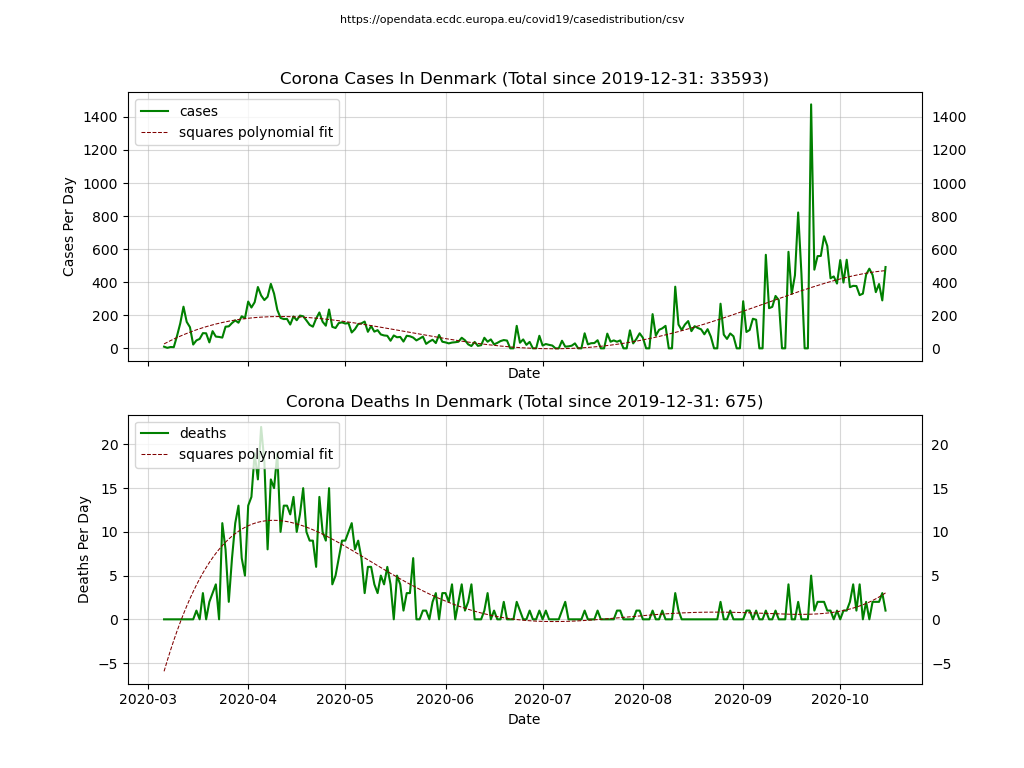
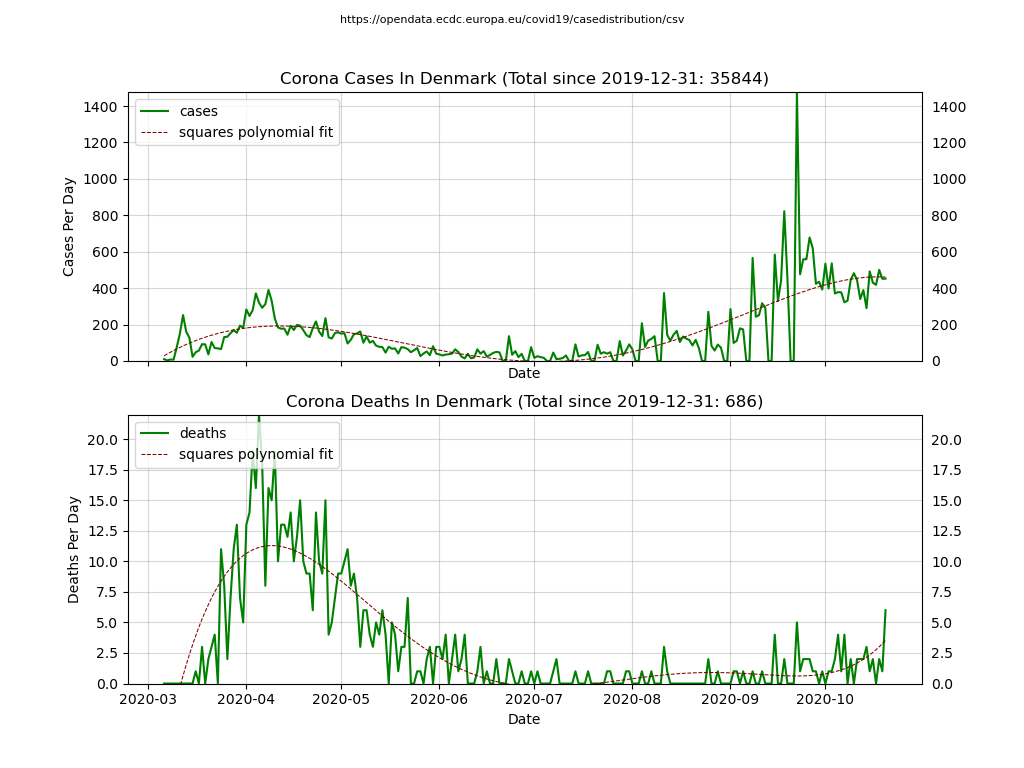
#18 Show graphs only for values >= 0  - also update images for current data

diff --git a/visualize.py b/visualize.py
@@ -211,6 +211,10 @@ class Application:
         df_concrete, first_day, sum_of_cases, sum_of_deaths = data
         fig, main_axes = self.configure_subplots()
 
+        # ensure that no negative axis is shown
+        main_axes[0].set_ylim(0, df_concrete['cases'].max())
+        main_axes[1].set_ylim(0, df_concrete['deaths'].max())
+
         self.plot(main_axes[0], 'cases', sum_of_cases, country_filter, df_concrete, first_day)
         self.plot(main_axes[1], 'deaths', sum_of_deaths, country_filter, df_concrete, first_day)
 

diff --git a/visualize-germany.py b/visualize-germany.py
@@ -196,6 +196,10 @@ class Application:
         df_concrete, first_day, sum_of_cases, sum_of_deaths = data
         fig, main_axes = self.configure_subplots()
 
+        # ensure that no negative axis is shown
+        main_axes[0].set_ylim(0, df_concrete['cases'].max())
+        main_axes[1].set_ylim(0, df_concrete['deaths'].max())
+
         self.plot(main_axes[0], 'cases', sum_of_cases, filter_value, df_concrete, first_day)
         self.plot(main_axes[1], 'deaths', sum_of_deaths, filter_value, df_concrete, first_day)
 

diff --git a/docs/images/README.md b/docs/images/README.md
@@ -7,5 +7,5 @@ are interested in or just create the images.`
 **Example:**
 
 ```
-python ..\..\visualize.py --no-viewer --initial-cases=4 --country=germany --country=italy --country=all --country=france --country=united_kingdom --country=United_States_of_America --country=belgium --country=denmark --country=austria --country=australia --country=sweden --country=spain
+python ..\..\visualize.py --no-viewer --initial-cases=4 --country=germany --country=italy --country=all --country=france --country=united_kingdom --country=United_States_of_America --country=belgium --country=denmark --country=austria --country=australia --country=sweden --country=ireland
 ```
